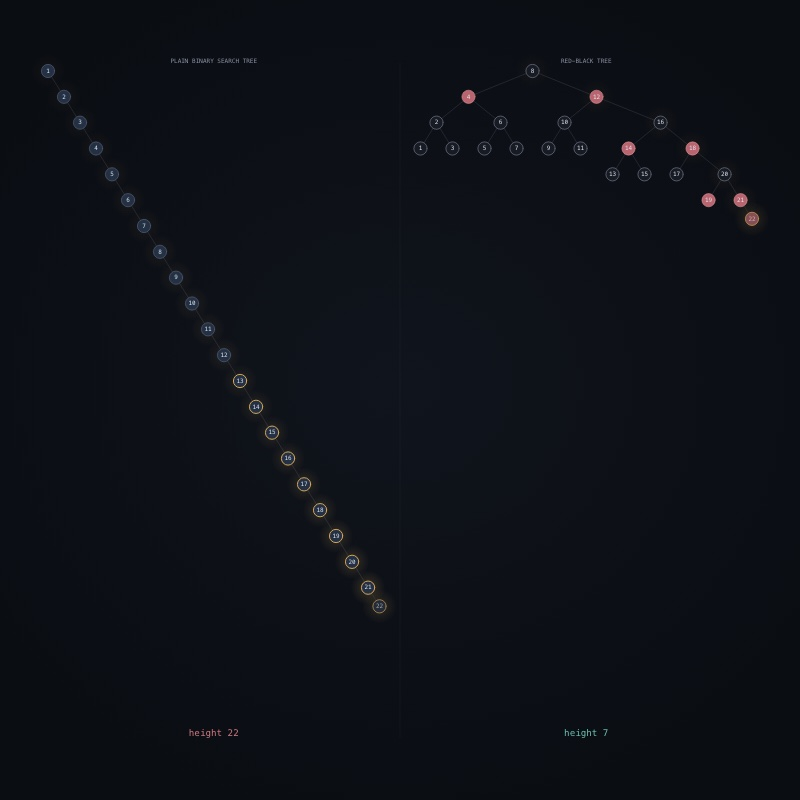
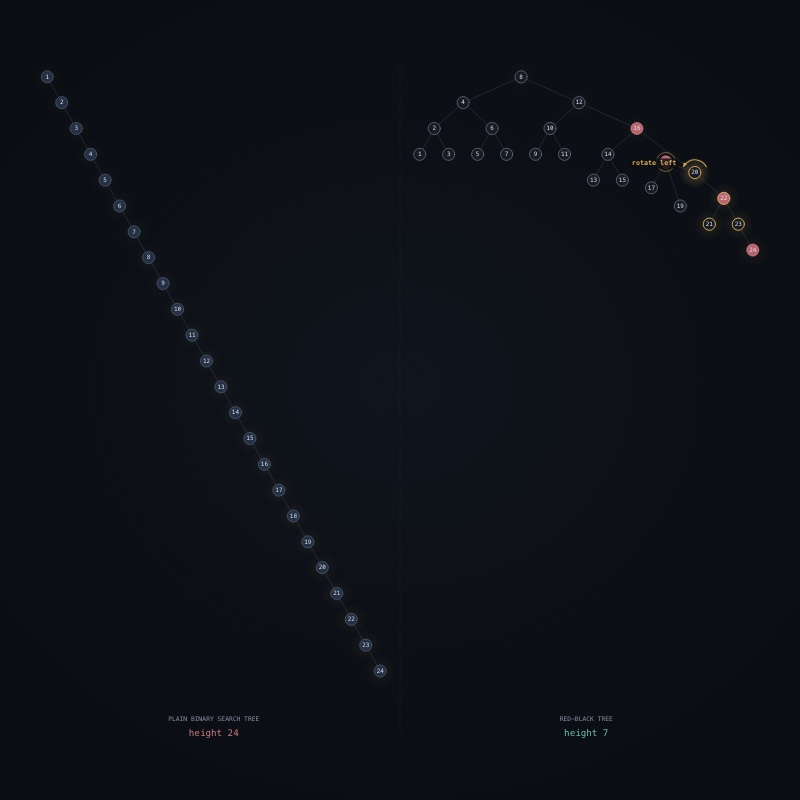
red-black-tree: clearer at a glance — readable plain-tree staircase, rotation arrows, faster verdict
Regenerated from the Data Structures project after a review of every scene's
first minute: fuller stage, larger text, the payoff sooner, and phone taps that
show within a second (the in-flight operation completes instantly first).

diff --git a/experiences/red-black-tree/web/js/scenes/rbtree.js b/experiences/red-black-tree/web/js/scenes/rbtree.js
@@ -79,6 +79,7 @@
     },
 
     reset() {
+      this.event = null;
       this.bst = { root: null, n: 0 };
       this.rb = { root: null, n: 0 };
       this.ghosts = [];
@@ -91,8 +92,9 @@
       const gap = 60 * u;
       const hw = (S.w - gap) / 2;
       return {
-        L: { x: S.x, w: hw, y: S.y + 36 * u, h: S.h - 110 * u },
-        R: { x: S.x + hw + gap, w: hw, y: S.y + 36 * u, h: S.h - 110 * u },
+        // headroom above the roots for the rotation marker; titles sit by the heights
+        L: { x: S.x, w: hw, y: S.y + 50 * u, h: S.h - 150 * u },
+        R: { x: S.x + hw + gap, w: hw, y: S.y + 50 * u, h: S.h - 150 * u },
         hy: S.y1 - 26 * u,
         mid: S.x + hw + gap / 2,
       };
@@ -107,7 +109,10 @@
       const lh = Math.min(62 * u, box.h / Math.max(1, h - 1 + 0.5));
       const sx = box.w / Math.max(n, 12);
       const off = (box.w - sx * n) / 2;
-      const r = DS.clamp(Math.min(sx * 0.42, lh * 0.4), 3 * u, 17 * u);
+      // Nodes are laid out in key order, one column each, so no two share a column:
+      // the radius only has to fit the column, not the level height. That keeps the
+      // plain tree's staircase readable as it grows, instead of shrinking to dots.
+      const r = DS.clamp(sx * 0.42, 3 * u, 19 * u);
       nodes.forEach(([nd, d], i) => {
         const tx = box.x + off + (i + 0.5) * sx, ty = box.y + d * lh;
         if (nd.x === 0 && nd.y === 0) { nd.x = tx; nd.y = ty - 24 * u; }
@@ -126,7 +131,7 @@
       if (has(this.rb, key)) return;
       const pb = pathTo(this.bst, key), pr = pathTo(this.rb, key);
       const L = Math.max(pb.length, pr.length);
-      const dt = Math.min(0.07, 0.8 / Math.max(1, L));
+      const dt = Math.min(0.06, 0.45 / Math.max(1, L));
       for (let i = 0; i < L; i++) {
         if (pb[i]) pb[i].hl = 1;
         if (pr[i]) pr[i].hl = 1;
@@ -135,7 +140,7 @@
       attach(this.bst, key, false).hl = 1;
       const z = attach(this.rb, key, true);
       z.hl = 1;
-      yield 0.3;
+      yield 0.25;
       yield* this.fixGen(z);
       DS.say(`insert ${key}  ·  search path: plain ${pb.length + 1} nodes, red-black ${pr.length + 1}`, pb.length > pr.length + 2 ? 'warn' : '');
     },
@@ -150,21 +155,21 @@
           p.red = false; uncle.red = false; gp.red = true;
           p.hl = uncle.hl = gp.hl = 1;
           this.recolor++;
-          this.event = { text: 'recolour', node: gp };
+          this.event = { text: 'recolour', node: gp, t: 1 };
           DS.say(`red parent, red uncle  →  recolour around ${gp.key}`);
-          yield 0.45;
+          yield 0.4;
           z = gp;
         } else {
-          if (left && z === p.r) { z = p; rotL(t, z); this.rot++; z.spin = 1; this.event = { text: 'rotate left', node: z.p }; DS.say(`zig-zag  →  rotate left at ${z.key}`); yield 0.5; }
-          else if (!left && z === p.l) { z = p; rotR(t, z); this.rot++; z.spin = 1; this.event = { text: 'rotate right', node: z.p }; DS.say(`zig-zag  →  rotate right at ${z.key}`); yield 0.5; }
+          if (left && z === p.r) { z = p; rotL(t, z); this.rot++; z.spin = 1; this.event = { text: 'rotate left', node: z.p, dir: -1, t: 1 }; DS.say(`zig-zag  →  rotate left at ${z.key}`); yield 0.6; }
+          else if (!left && z === p.l) { z = p; rotR(t, z); this.rot++; z.spin = 1; this.event = { text: 'rotate right', node: z.p, dir: 1, t: 1 }; DS.say(`zig-zag  →  rotate right at ${z.key}`); yield 0.6; }
           const pp = z.p, g2 = pp.p;
           pp.red = false; g2.red = true;
           if (left) rotR(t, g2); else rotL(t, g2);
           this.rot++;
           pp.hl = 1; g2.spin = 1;
-          this.event = { text: left ? 'rotate right' : 'rotate left', node: pp };
+          this.event = { text: left ? 'rotate right' : 'rotate left', node: pp, dir: left ? 1 : -1, t: 1 };
           DS.say(`red–red in a line  →  rotate ${left ? 'right' : 'left'} at ${g2.key}, ${pp.key} rises`, 'good');
-          yield 0.55;
+          yield 0.7;
         }
       }
       if (t.root.red) { t.root.red = false; yield 0.2; }
@@ -224,6 +229,7 @@
       this.layout(this.bst, G.L, dt);
       this.layout(this.rb, G.R, dt);
       this.ghosts.forEach((n) => { n.al = DS.ease(n.al, 0, dt, 8); });
+      if (this.event) { this.event.t -= dt / 1.4; if (this.event.t <= 0) this.event = null; }
       this.ghosts = this.ghosts.filter((n) => n.al > 0.02);
     },
 
@@ -249,22 +255,52 @@
         else { fill = '#243044'; stroke = '#62708b'; }
         DS.circle(g, n.x, n.y, r, fill, n.hl > 0.3 ? C.amber : stroke, (n.hl > 0.3 ? 2.2 : 1.3) * u);
         if (n.spin > 0.05) DS.circle(g, n.x, n.y, r * (1.5 + 0.6 * (1 - n.spin)), null, DS.rgba(C.amber, n.spin * 0.8), 1.6 * u);
-        if (r >= 8 * u) DS.text(g, String(n.key), n.x, n.y + 0.5 * u, { size: r * 0.85, mono: true, weight: 500, color: C.ink });
+        if (r >= 8 * u) DS.text(g, String(n.key), n.x, n.y + 0.5 * u, { size: Math.max(10.5 * u, r * 0.85), mono: true, weight: 500, color: C.ink });
         g.globalAlpha = 1;
       };
       nodes(t.root);
     },
 
+    // what the red-black tree just did, pinned to the node it happened at: a curved
+    // arrow showing which way the rotation turned, and the word for it
+    drawEvent(g) {
+      const e = this.event, u = DS.u;
+      if (!e || !e.node || e.node.al < 0.5) return;
+      const n = e.node, r = this.rb.r || 10 * u, a = DS.smooth(Math.min(1, e.t * 1.6));
+      if (e.dir) {
+        const R = r * 2.1, a0 = -Math.PI * 0.85, a1 = -Math.PI * 0.15;
+        const [from, to] = e.dir > 0 ? [a0, a1] : [a1, a0];
+        g.beginPath();
+        g.arc(n.x, n.y, R, from, to, e.dir < 0);
+        g.strokeStyle = DS.rgba(C.amber, 0.9 * a);
+        g.lineWidth = 2.6 * u;
+        g.stroke();
+        const hx = n.x + Math.cos(to) * R, hy = n.y + Math.sin(to) * R;
+        const tang = to + (e.dir > 0 ? Math.PI / 2 : -Math.PI / 2);
+        g.globalAlpha = a;
+        DS.arrow(g, hx - Math.cos(tang) * 8 * u, hy - Math.sin(tang) * 8 * u, hx, hy, C.amber, 2.6 * u, 10 * u);
+        g.globalAlpha = 1;
+      }
+      // the word goes beside the arc, on whichever side has room
+      const right = n.x < this.geo().R.x + this.geo().R.w * 0.75;
+      const tx = n.x + (right ? 1 : -1) * (r * 2.1 + 10 * u), ty = n.y - r * 1.5;
+      g.font = DS.font(16 * u, { mono: true, weight: 600 });
+      const w = g.measureText(e.text).width + 16 * u;
+      DS.box(g, right ? tx - 4 * u : tx - w + 4 * u, ty - 12 * u, w, 24 * u, 12 * u, DS.rgba(C.bg, 0.85 * a));
+      DS.text(g, e.text, right ? tx + 4 * u : tx - 4 * u, ty, { size: 16 * u, mono: true, weight: 600, color: DS.rgba(C.amber, a), align: right ? 'left' : 'right' });
+    },
+
     draw(g) {
       const G = this.geo(), u = DS.u;
-      DS.line(g, G.mid, G.L.y - 20 * u, G.mid, G.hy + 10 * u, DS.rgba(C.dim, 0.12), 1 * u);
-      DS.text(g, 'PLAIN BINARY SEARCH TREE', G.L.x + G.L.w / 2, G.L.y - 24 * u, { size: 13 * u, mono: true, color: C.dim });
-      DS.text(g, 'RED-BLACK TREE', G.R.x + G.R.w / 2, G.R.y - 24 * u, { size: 13 * u, mono: true, color: C.dim });
+      DS.line(g, G.mid, DS.stage.y + 10 * u, G.mid, G.hy + 10 * u, DS.rgba(C.dim, 0.12), 1 * u);
+      DS.text(g, 'PLAIN BINARY SEARCH TREE', G.L.x + G.L.w / 2, G.hy - 34 * u, { size: 15 * u, mono: true, color: C.dim });
+      DS.text(g, 'RED-BLACK TREE', G.R.x + G.R.w / 2, G.hy - 34 * u, { size: 15 * u, mono: true, color: C.dim });
 
       this.ghosts.forEach((n) => { g.globalAlpha = n.al; DS.circle(g, n.x, n.y, 6 * u, DS.rgba(C.dim, 0.4)); });
       g.globalAlpha = 1;
       this.drawTree(g, this.bst, false);
       this.drawTree(g, this.rb, true);
+      this.drawEvent(g);
 
       const hb = this.bst.h || 0, hr = this.rb.h || 0;
       const bad = hb > hr + 2;

diff --git a/experiences/red-black-tree/web/js/main.js b/experiences/red-black-tree/web/js/main.js
@@ -247,6 +247,10 @@
       if (st.pending >= 0 || !(s.actions || []).some((a) => a.id === id)) return false;
       activity();
       st.autoHold = st.t + 14;   // let the visitor's op play out before autoplay resumes
+      // A tap must show within a second: finish whatever is mid-flight and start
+      // the visitor's action now. Scenes that manage interruption themselves
+      // (a scripted story, say) set `preempt: false`.
+      if (s.preempt !== false && s.steps && s.steps.preempt) s.steps.preempt();
       s.act(id);
       return true;
     },
@@ -396,7 +400,7 @@
   renderMode();
   const warp = Math.min(600, parseFloat(params.get('warp')) || 0);
   for (let t = 0; t < warp; t += 1 / 30) { DS.time = st.t += 1 / 30; cur().update(1 / 30, true); }
-  if (warp) st.fade = 1;
+  if (warp) { st.fade = 1; if (opPending) { const [t, tone] = opPending; opPending = null; showOp(t, tone); } }
   if (params.has('clean')) document.querySelectorAll('.hud').forEach((e) => { e.style.display = 'none'; });
   requestAnimationFrame(frame);
 })();

diff --git a/experiences/red-black-tree/web/js/core.js b/experiences/red-black-tree/web/js/core.js
@@ -138,6 +138,21 @@
     clear() { this.q.length = 0; this.wait = 0; }
     run(job) { this.q.push(job); return this; }
     hold(s) { this.q.push(() => s); return this; }
+    // Make room for a visitor: finish the operation in flight instantly (so the
+    // structure is never left half-changed), and drop queued work that hasn't
+    // started. Generators are run to completion with their holds skipped.
+    preempt() {
+      const head = this.q[0];
+      this.q.length = 0;
+      this.wait = 0;
+      if (head && typeof head.next === 'function') {
+        for (let guard = 0; guard < 100000; guard++) {
+          const { value, done } = head.next();
+          if (done) break;
+          if (value && typeof value.next === 'function') { /* nested generator objects are driven by yield* already */ }
+        }
+      }
+    }
     update(dt) {
       this.wait -= dt;
       let guard = 0;
